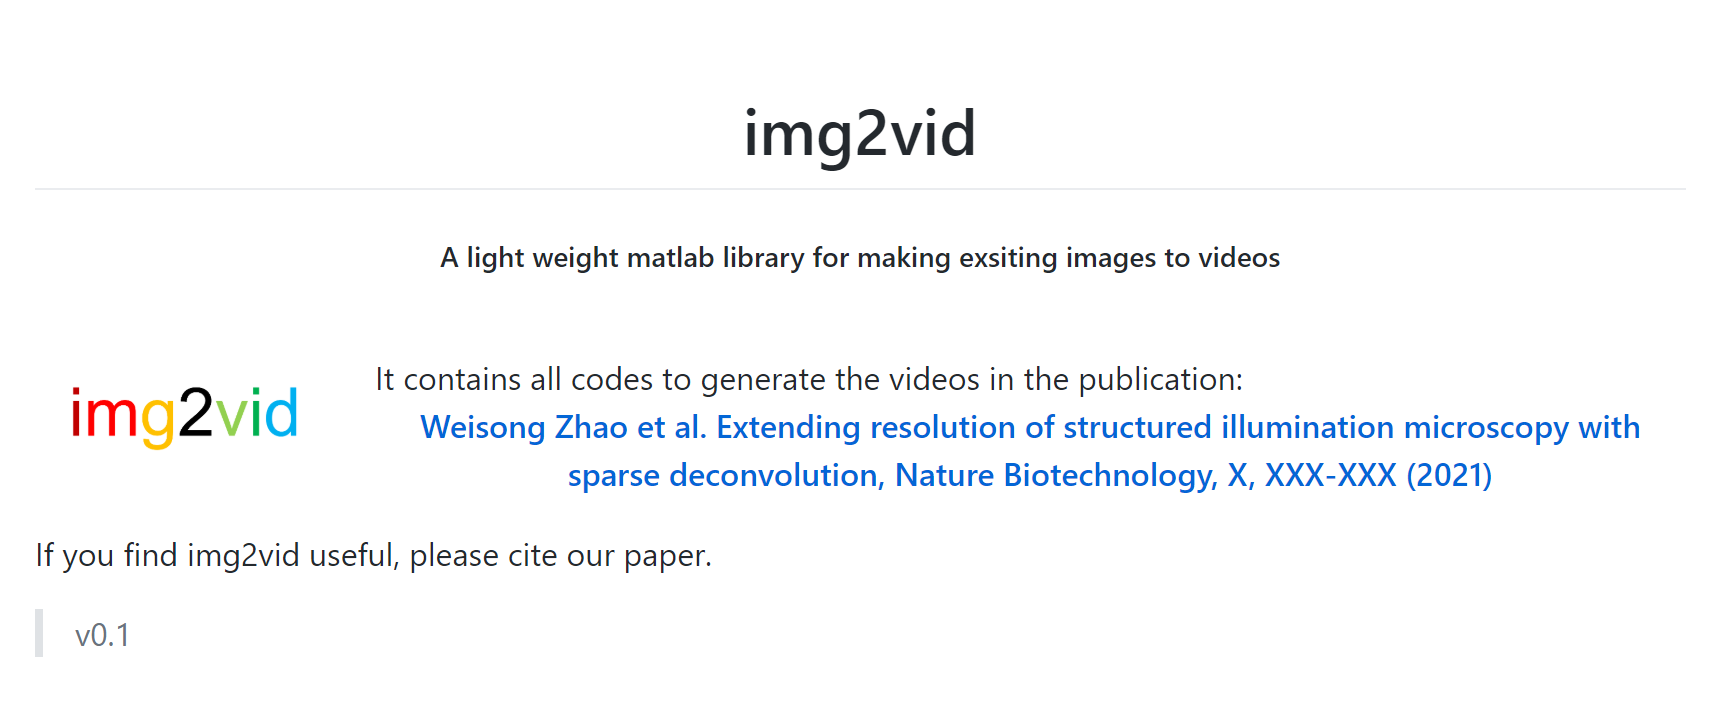
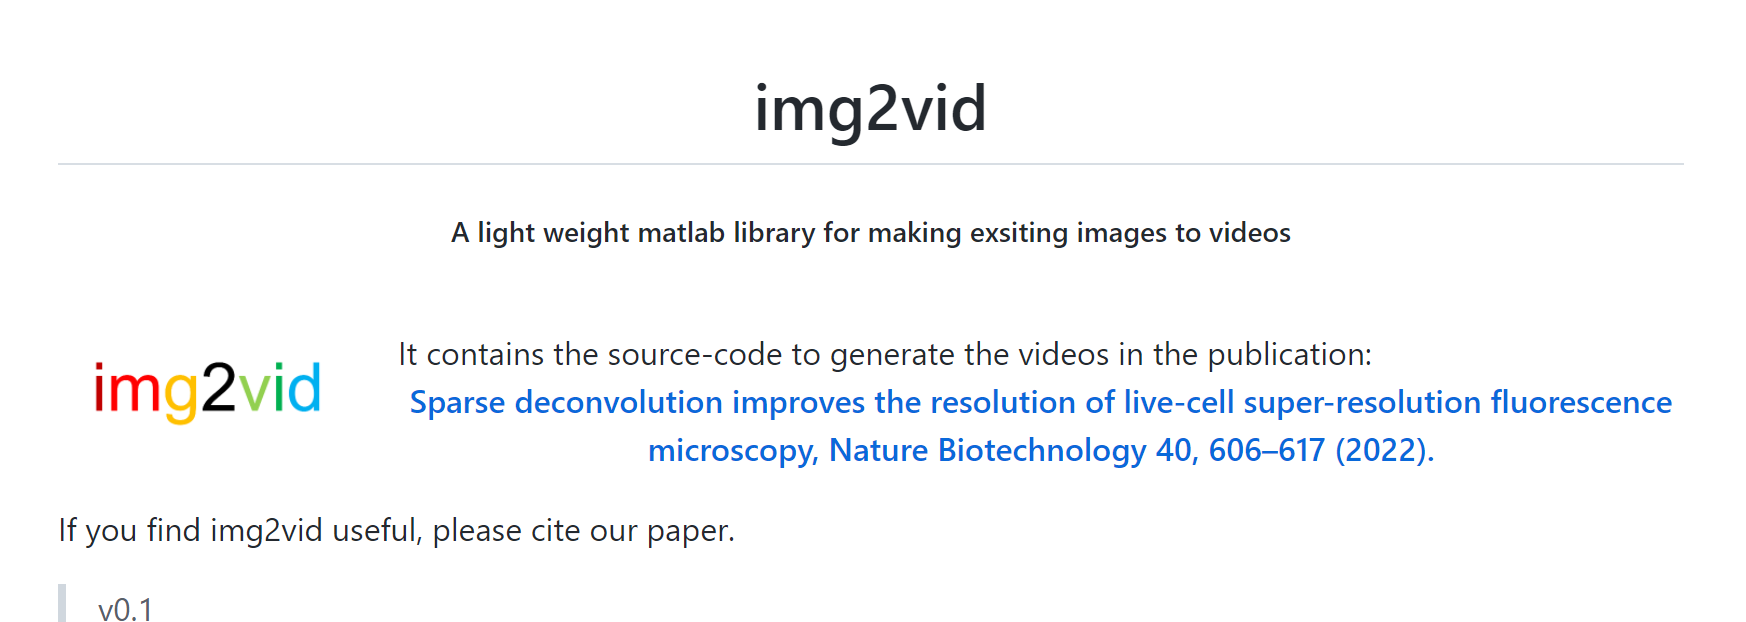
2023 update

diff --git a/portfolio-1-col.html b/portfolio-1-col.html
@@ -106,7 +106,7 @@
       </div>
       <div id="SparseDecon" class="col-md-5">
         <h3>Sparse deconvolution</h3>
-        <p><b>An universal post-processing framework for fluorescence microscopy.</b> Taking advantage of a priori knowledge of the sparsity and continuity of biological structures, we develop a deconvolution algorithm that extends twofold resolution beyond physical limits posed by any existing microscopic hardware for the first time.</p>       
+        <p><b>An universal post-processing framework for fluorescence microscopy.</b> Taking advantage of the prior knowledge of the microscopy PSF-induced sparsity and continuity, we develop a multiconstrained deconvolution algorithm that extends twofold resolution beyond physical limits posed by any existing microscopy hardware under low SNR conditions.</p>       
         <a class="btn btn-primary" href="https://doi.org/10.1038/s41587-021-01092-2">Paper
           <span class="glyphicon glyphicon-chevron-right"></span></a>
           <a class="btn btn-primary" href="portfolio-2-col.html#Sparse-deconvolution">Code
@@ -121,8 +121,8 @@
         <img class="img-fluid rounded mb-3 mb-md-0" src="./resources/Sparse-SIM.png" alt="">
       </div>
       <div id="SparseSIM" class="col-md-5">
-        <h3>Ultrafast, 60 nm Sparse-SIM</h3>
-        <p>The Sparse deconvolution assisted structured illumination microscopy (Sparse-SIM) achieves ~60 nm resolution at a temporal resolvability of ~2 ms, allowing it to resolve intricate structures, including small vesicular fusion pores and relative movements between the inner and outer membranes of mitochondria in live cells.        
+        <h3>Ultrafast, 60 nm, 564 Hz Sparse-SIM</h3>
+        <p>The Sparse deconvolution assisted structured illumination microscopy (Sparse-SIM) achieves ~60 nm resolution at a temporal resolvability of ~2 ms (~564 Hz), allowing it to resolve intricate structures, including small vesicular fusion pores and relative movements between the inner and outer membranes of mitochondria in live cells.        
         </p>
          <a class="btn btn-primary" href="https://doi.org/10.1038/s41587-021-01092-2">Paper
           <span class="glyphicon glyphicon-chevron-right"></span></a>
@@ -141,8 +141,8 @@
         <!--               <object width="500" height="500" data="https://static-content.springer.com/esm/art%3A10.1038%2Fs41587-021-01092-2/MediaObjects/41587_2021_1092_MOESM4_ESM.mp4"></object> -->
       </div>
       <div id="SparseSDSIM" class="col-md-5">
-        <h3>Multi-color, 90 nm × 260 nm 3D super-resolution confocal imaging</h3>
-        <p>The Sparse deconvolution assisted super-resolution confocal microscopes (Sparse SD-SIM) for visualizing dynamic processes (3% photon damage & 90 nm resolution) within cells (3D + 4 colors).        
+        <h3>Multi-color, 90 nm × 260 nm, 3D super-resolution confocal microscopy</h3>
+        <p>The Sparse deconvolution-assisted super-resolution confocal microscopes (Sparse SD-SIM) for visualizing dynamic processes (3% photon damage & 90 nm resolution) within cells (3D + 4 colors).        
         </p>
          <a class="btn btn-primary" href="https://doi.org/10.1038/s41587-021-01092-2">Paper
           <span class="glyphicon glyphicon-chevron-right"></span></a>
@@ -162,7 +162,7 @@
       </div>
       <div id="PANEL" class="col-md-5">
         <h3>PANEL</h3>
-        <p>PANEL (pixel-level analysis of error locations) framework for quantitatively mapping reconstruction quality at super-resolution scale (can assess both conventional and deep-learning methods).<br><b>rFRC:</b> The rolling Fourier ring correlation (rFRC) is for quantitatively mapping the local image quality (effective resolution, data uncertainty). The lower effective resolution gives a higher probability to the error existence, and thus we can use it to represent the uncertainty revealing the error distribution.
+        <p>PANEL (pixel-level analysis of error locations) framework for quantitatively mapping reconstruction quality at super-resolution scale (can assess both conventional and deep-learning methods).<br><br><b>rFRC:</b> The rolling Fourier ring correlation (rFRC) is for quantitatively mapping the local image quality (effective resolution, data uncertainty). The lower effective resolution gives a higher probability to the error existence, and thus we can use it to represent the uncertainty revealing the error distribution.
         <br><b>PANEL:</b> We also accompany our filtered rFRC with truncated RSM (resolution-scaled error map) as a full PANEL map, but this RSM is an optional feature that can be turn off as the wide-field reference being unavailable. PANEL is for biologists to qualitatively pinpoint regions with low reliability as a concise visualization.</p>
         <a class="btn btn-primary" href="https://doi.org/10.1101/2022.12.01.518675">Pre-print
           <span class="glyphicon glyphicon-chevron-right"></span></a>
@@ -184,7 +184,7 @@
       <div id="SACD" class="col-md-5">
         <h3>SACD</h3>
         <p>
-          SACD (super-resolution method based on auto-correlation with two-step deconvolution): A faster fluorescence fluctuation-based super resolution reconstruction method needs ~50 times less frames.<br>
+          SACD (super-resolution method based on auto-correlation with two-step deconvolution): A faster fluorescence fluctuation-based super resolution reconstruction method needs ~50 times less frames.<br><br>
           1. SACD only needs 20 frames to achieve twofold lateral and axial resolution improvements.<br>
           2. SACD requires no additional optical components, and can offer a direct and flexible add-on super-resolution feature on any off-the-shelf commercialized microscopes or in-house customized systems.<br>
           3. Sparse deconvolution-assisted SACD (Sparse-SACD) allows fast 4D super-resolution live-cell imaging.

diff --git a/index.html b/index.html
@@ -178,7 +178,7 @@
 	</header>
 	<!-- Page Content -->
 	<div class="container">
-		<h1 class="my-4">Research</h1>
+		<h2 class="my-4">Research</h2>
 		<!-- Marketing Icons Section -->
 		<div class="row">
 			<div class="col-lg-6 mb-4">
@@ -221,7 +221,19 @@
 			</div><hr>
 		</div>
 		<!-- /.row -->
-		<h1 class="my-4">Publications</h1>
+		<h2 class="my-4">Publications</h2>
+		<div class="col-lg-15 mb-4">
+			<div class="card h-100">
+				<h4 class="card-header">2023</h4>
+				<div class="card-body">
+					<ul>
+						<li>Yixuan Zhaoa, Jian Liu, Cheng Guob, 
+							<strong>Weisong Zhao</strong> et al. "<a href="https://doi.org/10.1016/j.optcom.2022.129016">Miniaturized light-field endoscope via a GRIN lens array.</a>" Optics Communications, 528, 129016 (2023).
+						</li>
+					</ul>
+				</div>
+			</div>
+		</div>
 		<div class="col-lg-15 mb-4">
 			<div class="card h-100">
 				<h4 class="card-header">2022</h4>
@@ -233,41 +245,38 @@
 						<li>
 							<strong>Weisong Zhao</strong> et al. "<a href="https://doi.org/10.1101/2022.12.01.518675">Quantitatively mapping local quality of super-resolution microscopy by rolling Fourier ring correlation.</a>" bioRxiv (2022).
 						</li>
+						<li>
+							Yue Zhang#, Xiaowei Zhang#, Zhongyi Li#, <strong>Weisong Zhao</strong># et al. "<a href="https://doi.org/10.1101/2022.10.19.512957">SARS-CoV-2 infected cells sprout actin-rich filopodia that facilitate viral invasion.</a>" bioRxiv (2022).
+						</li>	
+						<li>
+							<strong>Weisong Zhao</strong> et al. "<a href="https://doi.org/10.1038/s41587-021-01092-2">Sparse deconvolution improves the resolution of live-cell super-resolution fluorescence microscopy.</a>" Nature Biotechnology 40.4, 606-617 (2022).
+						</li>										
 					</ul>
 				</div>
 			</div>
 		</div>
 		<div class="col-lg-15 mb-4">
 			<div class="card h-100">
-				<h4 class="card-header">2021</h4>
+				<h4 class="card-header">2018~2021</h4>
 				<div class="card-body">
 					<ul>
 						<li>
-							<strong>Weisong Zhao</strong> et al. "<a href="https://doi.org/10.1038/s41587-021-01092-2">Sparse deconvolution improves the resolution of live-cell super-resolution fluorescence microscopy.</a>" Nature Biotechnology (2021).
-						</li>
-					</ul>
-				</div>
-			</div>
-		</div>
-		<div class="col-lg-15 mb-4">
-			<div class="card h-100">
-				<h4 class="card-header">2018~2020</h4>
-				<div class="card-body">
-					<ul>
+							<strong>Weisong Zhao</strong>, et al. "<a href="https://doi.org/10.1103/PhysRevApplied.13.014033">Ultrafast super-resolution imaging via auto-correlation two-step deconvolution.</a>" Ultrafast Nonlinear Imaging and Spectroscopy VIII SPIE, 11497 (2020).
+						</li>						
 						<li>
-							Zhuochao Wang, Jian Liu, Xumin Ding, <strong>Weisong Zhao</strong>, et al. "<a href="https://doi.org/10.1103/PhysRevApplied.13.014033"> Three-Dimensional Microwave Holography Based on Broadband Huygens' Metasurface.</a>" Physical Review Applied 13.1 (2020): 014033.
+							Zhuochao Wang, Jian Liu, Xumin Ding, <strong>Weisong Zhao</strong>, et al. "<a href="https://doi.org/10.1103/PhysRevApplied.13.014033">Three-Dimensional Microwave Holography Based on Broadband Huygens' Metasurface.</a>" Physical Review Applied 13.1, 014033 (2020).
 						</li>
 						<li>
-							Jian Liu, Yixuan Zhao, Cheng Guo, <strong>Weisong Zhao</strong>, et al. "<a href="https://doi.org/10.1364/OE.27.023814"> Robust autofocusing method for multi-wavelength lensless imaging.</a>" Optics Express 27.17 (2019): 23814-23829.
+							Jian Liu, Yixuan Zhao, Cheng Guo, <strong>Weisong Zhao</strong>, et al. "<a href="https://doi.org/10.1364/OE.27.023814">Robust autofocusing method for multi-wavelength lensless imaging.</a>" Optics Express 27.17, 23814-23829 (2019).
 						</li>
 						<li>
-							Jian Liu, <strong>Weisong Zhao</strong>, et al. "<a href="https://doi.org/10.1063/1.5088102">Accurate aberration correction in confocal microscopy based on modal sensorless method.</a>" Review of Scientific Instruments 90.5 (2019): 053703.
+							Jian Liu, <strong>Weisong Zhao</strong>, et al. "<a href="https://doi.org/10.1063/1.5088102">Accurate aberration correction in confocal microscopy based on modal sensorless method.</a>" Review of Scientific Instruments 90.5, 053703 (2019).
 						</li>
 						<li>
 							<strong>Weisong Zhao</strong> et al. "<a href="https://arxiv.org/abs/1809.07410">Faster super-resolution imaging with auto-correlation two-step deconvolution.</a>" arXiv preprint arXiv:1809.07410 (2018).
 						</li>
 						<li>
-							Jian Liu, Chenqi Kong, Qiang Li, <strong>Weisong Zhao</strong>, et al. "<a href="https://doi.org/10.1364/OE.26.026065">Artifact-free, penetration-adjustable elliptical-mirror-based TIRF microscopy.</a>" Optics Express 26.20 (2018): 26065-26079.
+							Jian Liu, Chenqi Kong, Qiang Li, <strong>Weisong Zhao</strong>, et al. "<a href="https://doi.org/10.1364/OE.26.026065">Artifact-free, penetration-adjustable elliptical-mirror-based TIRF microscopy.</a>" Optics Express 26.20, 26065-26079 (2018).
 						</li>
 					</ul>
 				</div>

diff --git a/portfolio-4-col.html b/portfolio-4-col.html
@@ -75,7 +75,7 @@
 	<div align="center">
 		<i>All rights reserved – please contact <a href="contact.html">Weisong Zhao</a> if you want to use these images.</i>
 	</div><hr>
-    <h3><font color="#000000">Sparse deconvolution assisted microscopy</font></h3>
+    <h3><font color="#000000">Sparse deconvolution-assisted microscopy</font></h3>
     <h4 id="Sparse-SDSIM" align="right"><font color="#000000">SD-SIM</font></h4><hr>
     <div class="row">
       <div class="col-md-7">
@@ -500,7 +500,7 @@
                     <br>
                     <b>Description</b>:<br> Left: 3D live worm; Right: tilted USAF target.
                     <br><br>
-                    <a class="btn btn-primary" href="https://aip.scitation.org/doi/abs/10.1063/1.5143113?journalCode=apl&=/">Link to the paper
+                    <a class="btn btn-primary" href="https://doi.org/10.1016/j.optcom.2022.129016">Link to the paper
                       <span class="glyphicon glyphicon-chevron-right"></span>
                     </a>
                   </div>
@@ -705,7 +705,7 @@
                   <br>
                   <b>Cell line</b>:<br> COS-7 cell.   
                   <br>
-                  <b>Description</b>:<br> The process of cell division in hours.<br> 0~10 μm and the plane at 7 μm is visualized on the left. <br><b>From Liangyi Chen.</b>
+                  <b>Description</b>:<br> The process of cell division in hours.<br> 0~10 μm and the plane at 7 μm is visualized on the left. <br><b>From Prof. Liangyi Chen.</b>
                   <br><br>
                   <a class="btn btn-primary" href="https://www.nature.com/articles/s41377-020-0249-4/">Link to the paper
                     <span class="glyphicon glyphicon-chevron-right"></span>
@@ -747,7 +747,7 @@
                     <b>Label</b>:<br> 
                     &emsp;&emsp;MitoTracker Green.    
                     <br>
-                    <b>Description</b>:<br> Left panel: ODT (left) at 5μm plane (0~6μm in total); 2D-SIM (right).<br>Right panel: 2D-SIM (red) + ODT (gray). <br><b>From Liangyi Chen.</b> 
+                    <b>Description</b>:<br> Left panel: ODT (left) at 5μm plane (0~6μm in total); 2D-SIM (right).<br>Right panel: 2D-SIM (red) + ODT (gray). <br><b>From Prof. Liangyi Chen.</b> 
                   </p>
                   <div class="card-footer">
                     <p align="center"><a href="https://www.nature.com/articles/s41377-020-0249-4/" class="btn btn-primary">Link to the paper</a></p>
@@ -785,7 +785,7 @@
                     <b>Description</b>: From <b>Changliang Guo.</b>
                   </p>
                   <div>
-                    <p align="center"><a href="404.html"  class="btn btn-primary">Link to the paper</a></p>
+                    <p align="center"><a href="https://doi.org/10.1101/2021.11.21.469394"  class="btn btn-primary">Link to the paper</a></p>
                   </div>
                 </div>
               </div>

diff --git a/portfolio-1_2-col.html b/portfolio-1_2-col.html
@@ -95,7 +95,23 @@
         </a>
       </li>
     </ul>
-    
+        <!-- Project Three -->
+    <div class="row">
+      <div class="col-md-7">
+        <a href="#">
+          <img class="img-fluid rounded mb-3 mb-md-0" src="./resources/endoscope.png" alt="">
+        </a>
+      </div>
+      <div class="col-md-5">
+        <h3>Single-shot volumetric endoscope</h3>
+        <p>A light-field endoscopy prototype using a GRIN lens array (GLA). It achieves spatial resolutions of 20–60 μm and 100–200 μm in the lateral and axial dimensions, respectively, across an imaging volume of ∼5 mm × 5 mm × 10 mm. It may be a promising paradigm for glasses-free, high-resolution 3D medical endoscopy. </p>
+       <a class="btn btn-primary" href="https://doi.org/10.1016/j.optcom.2022.129016">Paper
+          <span class="glyphicon glyphicon-chevron-right"></span></a>
+          <a class="btn btn-primary" href="portfolio-4-col.html#endoscope">Gallery
+          <span class="glyphicon glyphicon-chevron-right"></span></a>
+      </div>
+    </div>
+    <hr>
     <!-- Project One -->
     <div class="row">
       <div class="col-md-7">
@@ -164,7 +180,7 @@
     <hr>
 
     <!-- Project Three -->
-    <div class="row">
+<!--     <div class="row">
       <div class="col-md-7">
         <a href="#">
           <img class="img-fluid rounded mb-3 mb-md-0" src="./img/gallery/sample1-2.gif" alt="">
@@ -181,24 +197,7 @@
           <span class="glyphicon glyphicon-chevron-right"></span></a>
       </div>
     </div>
-    <hr>
-    <!-- Project Three -->
-    <div class="row">
-      <div class="col-md-7">
-        <a href="#">
-          <img class="img-fluid rounded mb-3 mb-md-0" src="./resources/endoscope.png" alt="">
-        </a>
-      </div>
-      <div class="col-md-5">
-        <h3>Single-shot volumetric endoscope</h3>
-        <p>A light-field endoscopy prototype using a GRIN lens array (GLA). It achieves spatial resolutions of 20–60 μm and 100–200 μm in the lateral and axial dimensions, respectively, across an imaging volume of ∼5 mm × 5 mm × 10 mm. It may be a promising paradigm for glasses-free, high-resolution 3D medical endoscopy. </p>
-       <a class="btn btn-primary" href="https://aip.scitation.org/doi/abs/10.1063/1.5143113?journalCode=apl&=">Paper
-          <span class="glyphicon glyphicon-chevron-right"></span></a>
-          <a class="btn btn-primary" href="portfolio-4-col.html#endoscope">Gallery
-          <span class="glyphicon glyphicon-chevron-right"></span></a>
-      </div>
-    </div>
-    <hr>
+    <hr> -->
     <!-- Project Three -->
     <div class="row">
       <div class="col-md-7">

diff --git a/portfolio-2-col.html b/portfolio-2-col.html
@@ -210,7 +210,7 @@
           <p>Atifacts-free, diffraction-limit resolution, single-shot three-dimensional microscopy, the revolution on the live 3D biological imaging. This repo. provides the Matlab toolbox (including GUI) for LFM volume reconstruction.
             <br><b>Basic features</b>:
           <br>1. Calculate LF PSF;  <br>2. Image rectification;  <br>3. Reconstructed LF volume; <br>4. Bayes reconstruction;  <br>5. Automatic tracking of mitochondrial dynamics;  </p>
-          <a class="btn btn-primary" href="https://github.com/WeisongZhao/Bayes-LFM">MATLAB
+          <a class="btn btn-primary" href="404.html">MATLAB
             <span class="glyphicon glyphicon-chevron-right"></span>
           </a>
         </div>

diff --git a/portfolio-2_2-col.html b/portfolio-2_2-col.html
@@ -165,7 +165,7 @@
           </a>
         </div>
         <div class="col-md-5">
-          <h3>AO</h3>
+          <h3>Simulation for adaptive optics</h3>
           <p>Simulation for sensorless adaptive optics (Confocal microscopy, Modal method). The simulation generates the aberrated PSF on the pupil with Zernike polynomial 5-22 orders, and corrects them with different method.</p>
           <a class="btn btn-primary" href="https://github.com/WeisongZhao/AdaptiveOptics.simulation">MATLAB
             <span class="glyphicon glyphicon-chevron-right"></span>
